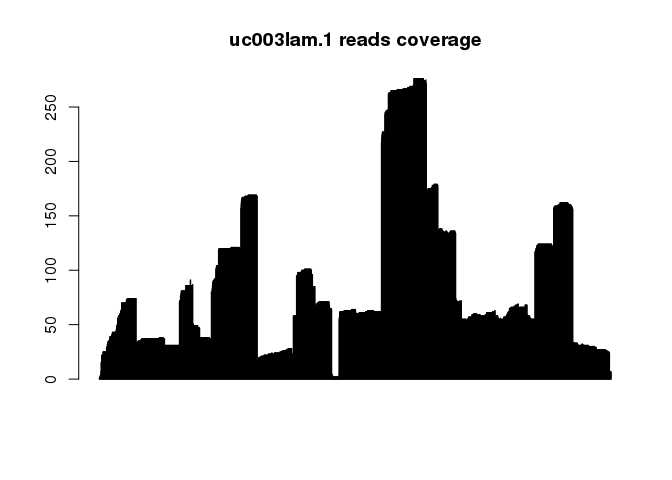
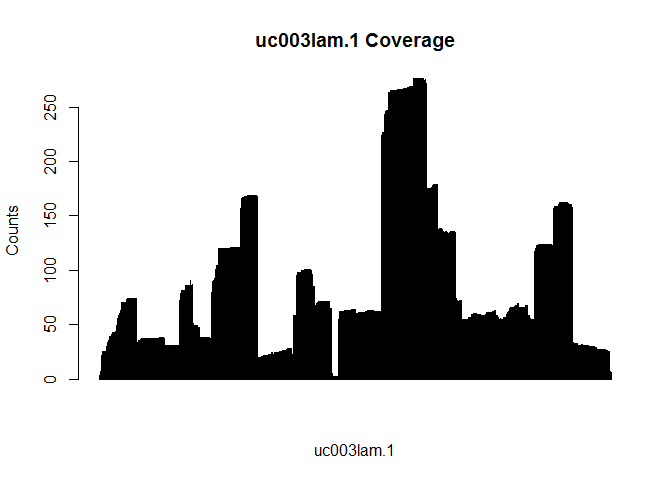
Update Readme

diff --git a/README.md b/README.md
@@ -1,6 +1,4 @@
 
-<!-- README.md is generated from README.Rmd. Please edit that file -->
-
 # txtools
 
 <!-- badges: start -->
@@ -97,7 +95,6 @@ For example:
 <!-- end list -->
 
 ``` r
-library(GenomicAlignments)
 names(txReads)
 #> [1] "uc003lam.1" "uc010nap.1"
 ```
@@ -136,8 +133,8 @@ txReads$uc010nap.1$seq[6]
 ### Raw Gene Counts
 
 A common task in RNA-seq analysis workflows is simply counting the reads
-(or mappings) that cover a gene. this is now easily done and provided as
-the `tx_counts()` function.
+(or mappings) that fall into a gene model. This can be done using the
+`tx_counts()` function.
 
 ``` r
 tx_counts(txReads)
@@ -149,22 +146,24 @@ tx_counts(txReads)
 ### RNA-seq reads summary tables
 
 Another useful representation of RNA-seq information is to summarise
-reads into tables that span the whole transcript with summarized
-information such as:
+reads metrics into tables spanning the whole transcript with information
+per nucleotide. The `tx_covNucFreqDT()` function creates such tables
+adding both the genomic and transcriptomic coordinates system and the
+following metrics:
 
   - Coverage
-  - Starts or 5prime-ends counts
-  - Ends or 3prime-ends counts
+  - Starts or 5’-ends counts
+  - Ends or 3’-ends counts
   - Nucleotide frequencies
   - Deletion frequencies
 
-The `tx_covNucFreqDT()` function creates such tables adding both the
-genomic and transcriptomic coordinates
-system.
+<!-- end list -->
 
 ``` r
-resTab <- tx_covNucFreqDT(txReads, geneAnnot, simplify_IUPAC = "splitForceInt")
-resTab$uc010nap.1[,-"."]
+resTab <- tx_covNucFreqDT(txReads, geneAnnot)
+
+# This will show the summarized data table for the "uc010nap.1" gene
+resTab$uc010nap.1
 #>       chr   gencoor strand       gene txcoor cov start_5p end_3p A C  G  T N -
 #>   1: chr9 137029686      - uc010nap.1      1  38       38      0 0 0 38  0 0 0
 #>   2: chr9 137029685      - uc010nap.1      2  38        0      0 0 0  0 38 0 0
@@ -177,6 +176,18 @@ resTab$uc010nap.1[,-"."]
 #> 123: chr9 137029564      - uc010nap.1    123   5        0      1 0 0  0  5 0 0
 #> 124: chr9 137029563      - uc010nap.1    124   4        0      0 0 0  0  4 0 0
 #> 125: chr9 137029562      - uc010nap.1    125   4        0      4 0 0  0  4 0 0
+#>      .
+#>   1: 0
+#>   2: 0
+#>   3: 0
+#>   4: 0
+#>   5: 0
+#>  ---  
+#> 121: 0
+#> 122: 0
+#> 123: 0
+#> 124: 0
+#> 125: 0
 ```
 
 The resulting object is of class `data.table`, as one can perform many
@@ -184,7 +195,8 @@ tasks using this data structure, as well as writing them to disk in a
 faster way than using the base R functions.
 
 The resulting data.table enables easy and fast access to data, ready for
-manipulation and analysis, for example:
+manipulation and analysis, for example, creating a barplot with the
+coverage column:
 
   - Coverage barplot
 
@@ -192,7 +204,8 @@ manipulation and analysis, for example:
 
 ``` r
 iGene <- "uc003lam.1"
-barplot(resTab[[iGene]]$cov, main= paste(iGene, "reads coverage"))
+barplot(resTab[[iGene]]$cov, main = paste(iGene, "Coverage"),
+        ylab = "Counts", xlab = iGene)
 ```
 
 <img src="man/figures/README-unnamed-chunk-7-1.png" width="100%" />
@@ -205,7 +218,7 @@ barplot(resTab[[iGene]]$cov, main= paste(iGene, "reads coverage"))
 iGene <- "uc010nap.1"
 barplot(t(data.frame(resTab[[iGene]][,c("A", "T", "G", "C", "N")])),
         col = c("#E41A1C", "#377EB8", "#4DAF4A", "#984EA3", "black"), border = "gray",
-        main = paste(iGene, "nucleotide frequency"))
+        main = paste("Nucleotide Frequency"), ylab = "Counts", xlab = iGene)
 ```
 
 <img src="man/figures/README-unnamed-chunk-8-1.png" width="100%" />
@@ -217,10 +230,6 @@ tables in disk using the function
 ``` r
 data.table::fwrite(resTab, "tableName.txt", sep "\t")
 ```
-
-<!-- Using the aforementioned table we can easily reconstruct the genomic sequence -->
-
-<!-- based on the consensus of nucleotides read in RNA-seq data. -->
 
 <!-- Looking for the gene in the UCSC genome browser we can check that indeed our  -->
 
